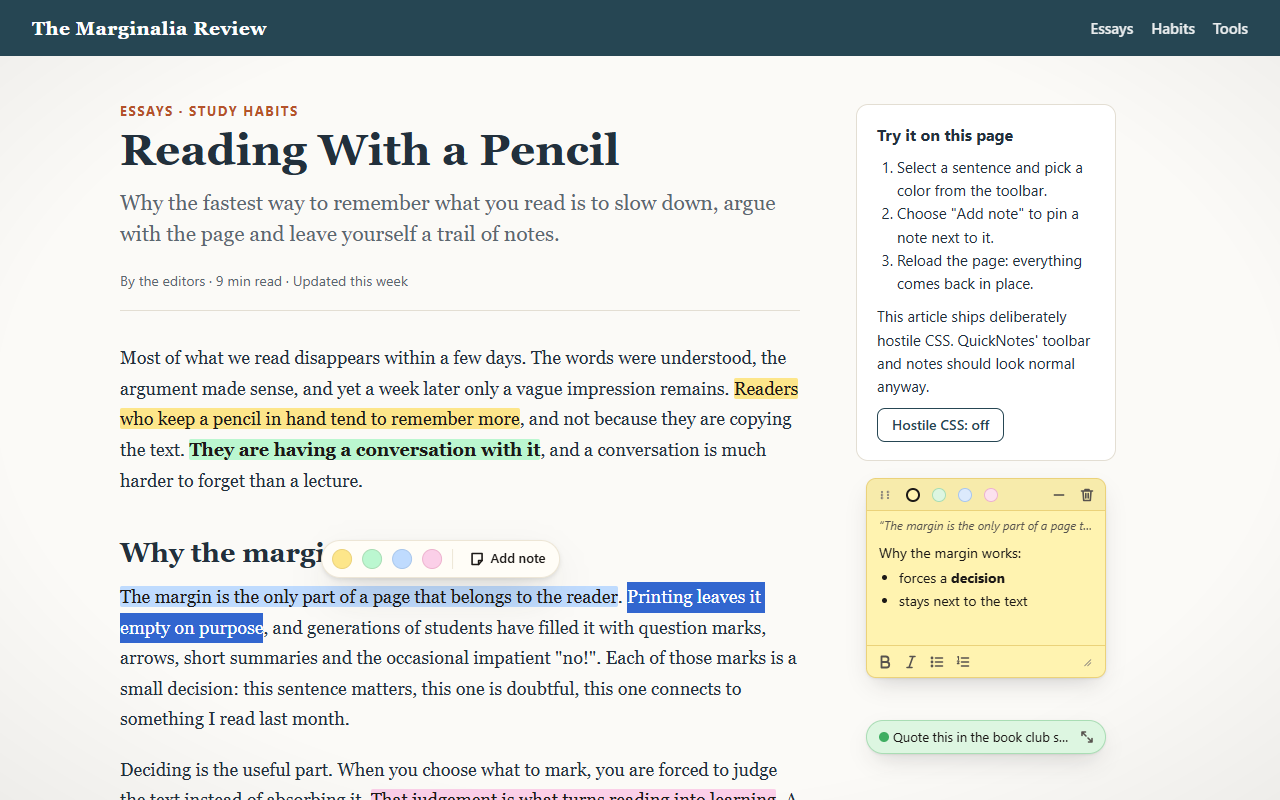
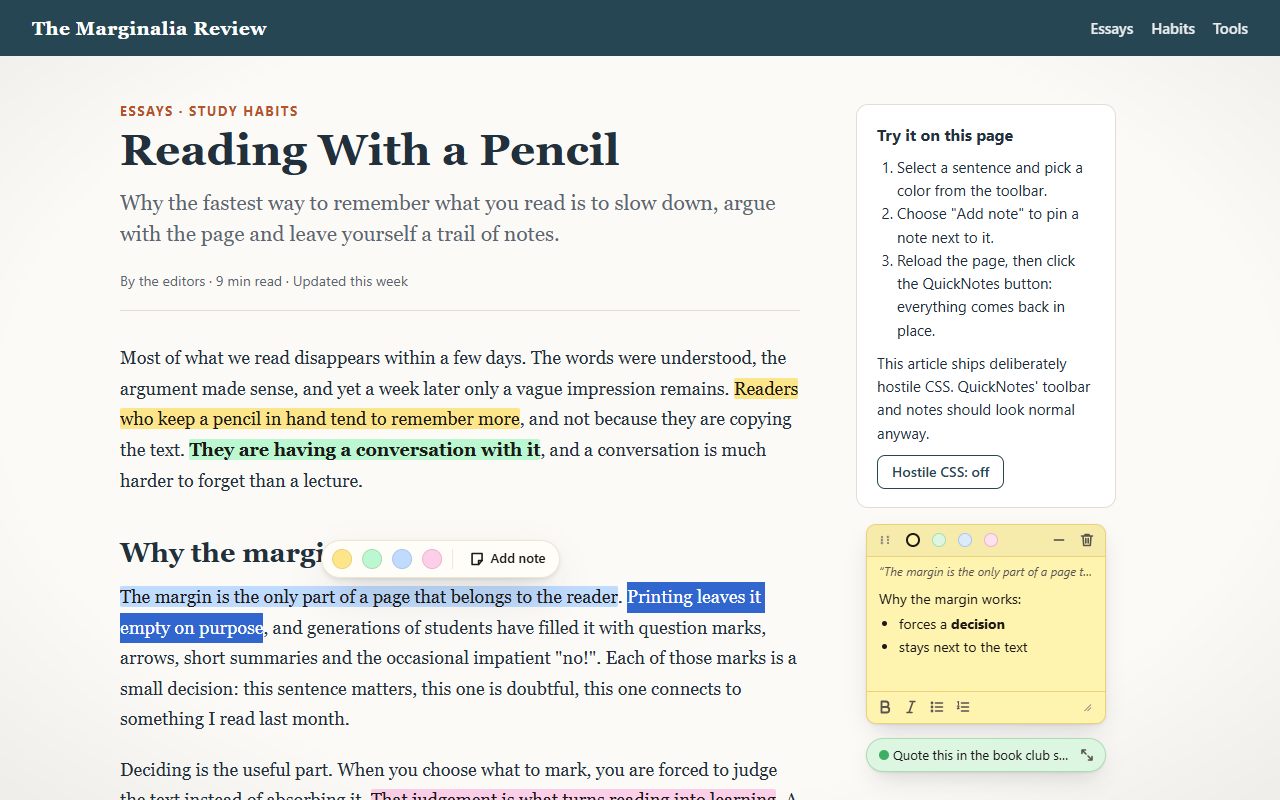
chore(store): 24-bit screenshots, demo reload step, reviewer instructions
- Screenshots 2 and 3 were RGBA PNGs; the Web Store asks for JPEG or
  24-bit PNG without alpha. The composed images are flattened in a second
  sharp pass, the capture checks every image, and the listing unit test now
  asserts 3 channels and no alpha for screenshots and the promo tile.
- The demo article's "Try it" card said a reload brings everything back;
  with the default install the page is restored on the next click of the
  QuickNotes button, and the card now says so. Screenshot 1 recaptured
  (notes placed under the card, whatever its height).
- The reviewer test instructions in docs/PUBLISHING.md no longer name a
  real site.

Changed region(s): [[0.6562, 0.3125, 0.875, 0.9688]]

diff --git a/scripts/store-assets/capture.spec.ts b/scripts/store-assets/capture.spec.ts
@@ -106,11 +106,24 @@ async function panelShot(harness: ExtensionHarness, popup: CdpTarget): Promise<C
   return panel;
 }
 
+/**
+ * The Web Store wants screenshots as JPEG or 24-bit PNG without alpha: compose
+ * on an RGBA canvas (the popup's shadow is translucent), then drop the alpha
+ * channel in a second pass — sharp would apply removeAlpha() before composite().
+ */
 async function sideBySide(page: Buffer, panel: Buffer, path: string, overlays: OverlayOptions[] = []) {
-  await sharp({ create: { width: WIDTH, height: HEIGHT, channels: 4, background: '#EDE6D6' } })
+  const composed = await sharp({ create: { width: WIDTH, height: HEIGHT, channels: 4, background: '#EDE6D6' } })
     .composite([{ input: page, left: 0, top: 0 }, { input: panel, left: PAGE_WIDTH + 1, top: 0 }, ...overlays])
-    .png({ compressionLevel: 9 })
-    .toFile(path);
+    .png()
+    .toBuffer();
+  await sharp(composed).flatten({ background: '#EDE6D6' }).png({ compressionLevel: 9 }).toFile(path);
+}
+
+/** Rewrites a PNG as 24-bit RGB if it has an alpha channel (Playwright's own screenshots normally do not). */
+async function withoutAlpha(path: string): Promise<void> {
+  if (!(await sharp(path).metadata()).hasAlpha) return;
+  const rgb = await sharp(path).flatten({ background: '#FFFFFF' }).png({ compressionLevel: 9 }).toBuffer();
+  await writeFile(path, rgb);
 }
 
 /** A card with a soft shadow, as the popup appears under the toolbar button. */
@@ -268,8 +281,9 @@ test('store images', async ({ harness }, testInfo) => {
   await page.evaluate(() => window.scrollTo({ top: 0, behavior: 'instant' }));
   // Below the "Try it" card: the list note open, the green one minimized.
   // The green note was created last, so it sits on top: move it first.
-  await place(1, 866, 720);
-  await place(0, 866, 478);
+  const cardBottom = await page.evaluate(() => document.querySelector('aside .card')!.getBoundingClientRect().bottom);
+  await place(1, 866, Math.round(cardBottom) + 230);
+  await place(0, 866, Math.round(cardBottom) + 16);
   await page.locator('[data-qn="note"]').nth(1).getByRole('button', { name: 'Minimize note' }).click();
   await expect.poll(async () => (await harness.demoRecord())?.notes.filter((note) => note.minimized).length).toBe(1);
   await page.mouse.click(20, 400);
@@ -334,8 +348,11 @@ test('store images', async ({ harness }, testInfo) => {
     ['promo-small-440x280.png', 440, 280],
     ['icon-128.png', 128, 128],
   ] as const) {
+    // The icon keeps its transparency; screenshots and the promo tile must not have any.
+    if (file !== 'icon-128.png') await withoutAlpha(join(OUT, file));
     const meta = await sharp(join(OUT, file)).metadata();
     expect({ file, width: meta.width, height: meta.height }).toEqual({ file, width, height });
+    if (file !== 'icon-128.png') expect({ file, channels: meta.channels }).toEqual({ file, channels: 3 });
   }
 
   expect(await harness.allErrors()).toEqual([]);

diff --git a/tests/store-listing.test.ts b/tests/store-listing.test.ts
@@ -57,5 +57,9 @@ describe('Chrome Web Store listing (store-assets/description.md)', () => {
     expect(existsSync(path), `${file} missing — run npm run store-assets`).toBe(true);
     const meta = await sharp(path).metadata();
     expect({ width: meta.width, height: meta.height, format: meta.format }).toEqual({ width, height, format: 'png' });
+    if (file !== 'icon-128.png') {
+      // The dashboard takes screenshots and promo tiles as JPEG or 24-bit PNG with no alpha.
+      expect({ channels: meta.channels, hasAlpha: meta.hasAlpha }).toEqual({ channels: 3, hasAlpha: false });
+    }
   });
 });

diff --git a/demo/article.html b/demo/article.html
@@ -493,7 +493,7 @@
           <ol>
             <li>Select a sentence and pick a color from the toolbar.</li>
             <li>Choose "Add note" to pin a note next to it.</li>
-            <li>Reload the page: everything comes back in place.</li>
+            <li>Reload the page, then click the QuickNotes button: everything comes back in place.</li>
           </ol>
           <p>This article ships deliberately hostile CSS. QuickNotes' toolbar and notes should look normal anyway.</p>
           <button type="button" id="toggle-hostile">Hostile CSS: on</button>

diff --git a/docs/PUBLISHING.md b/docs/PUBLISHING.md
@@ -142,7 +142,7 @@ En la pestaña **Distribución**:
 
 Si el panel muestra el campo **Instrucciones de prueba**, pega algo así:
 
-> No account or login is needed. Open any article (for example a news or Wikipedia page), click the
+> No account or login is needed. Open any page with a few paragraphs of text, click the
 > QuickNotes toolbar button, then select text: a toolbar appears to highlight it or add a note.
 > Reload the page and click the button again: highlights and notes come back. The side panel
 > ("Open side panel" in the popup) lists them and exports them to Markdown. The optional host
